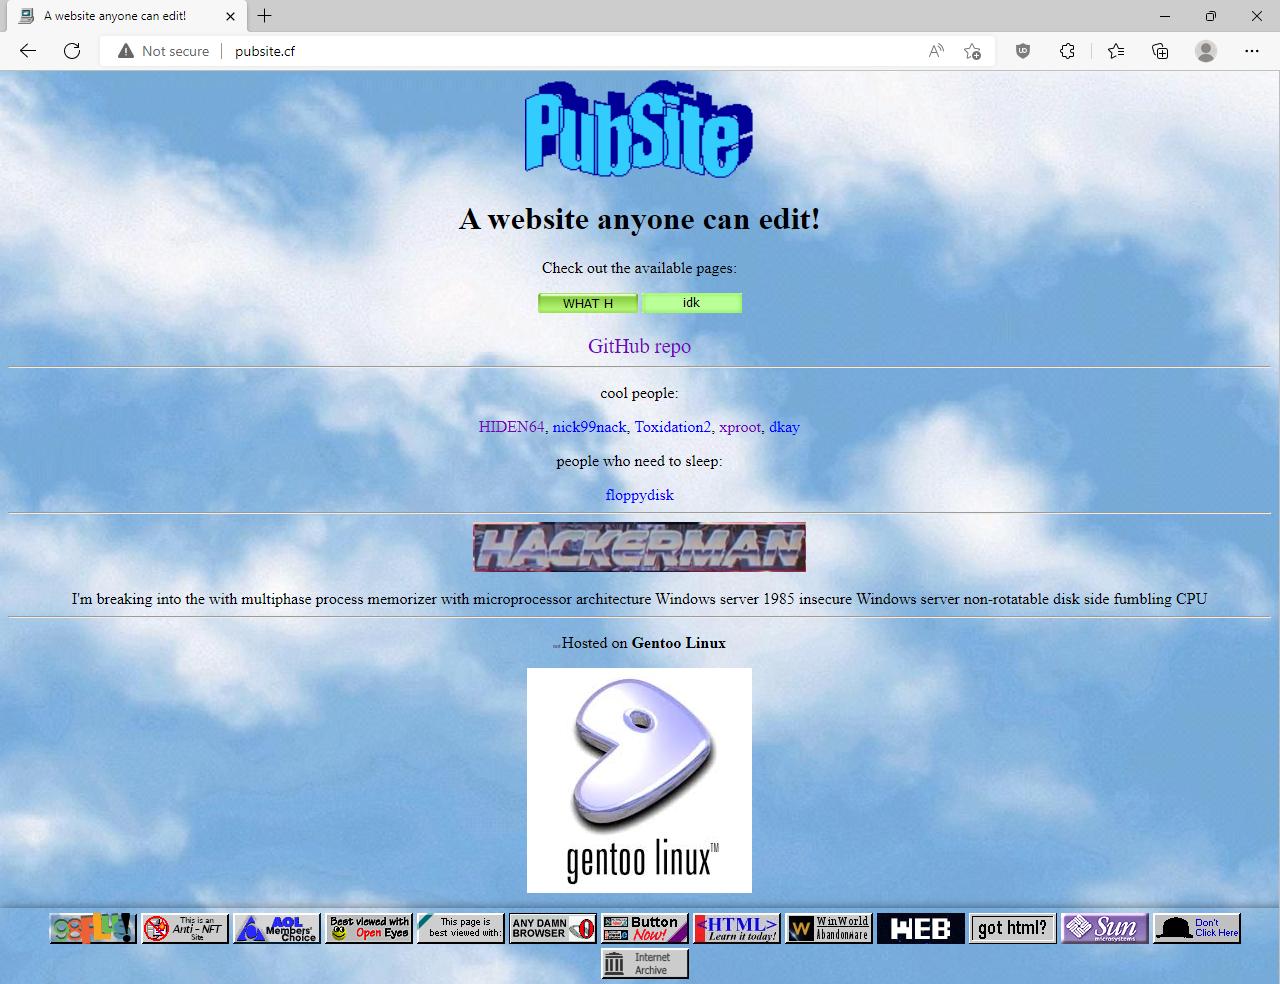
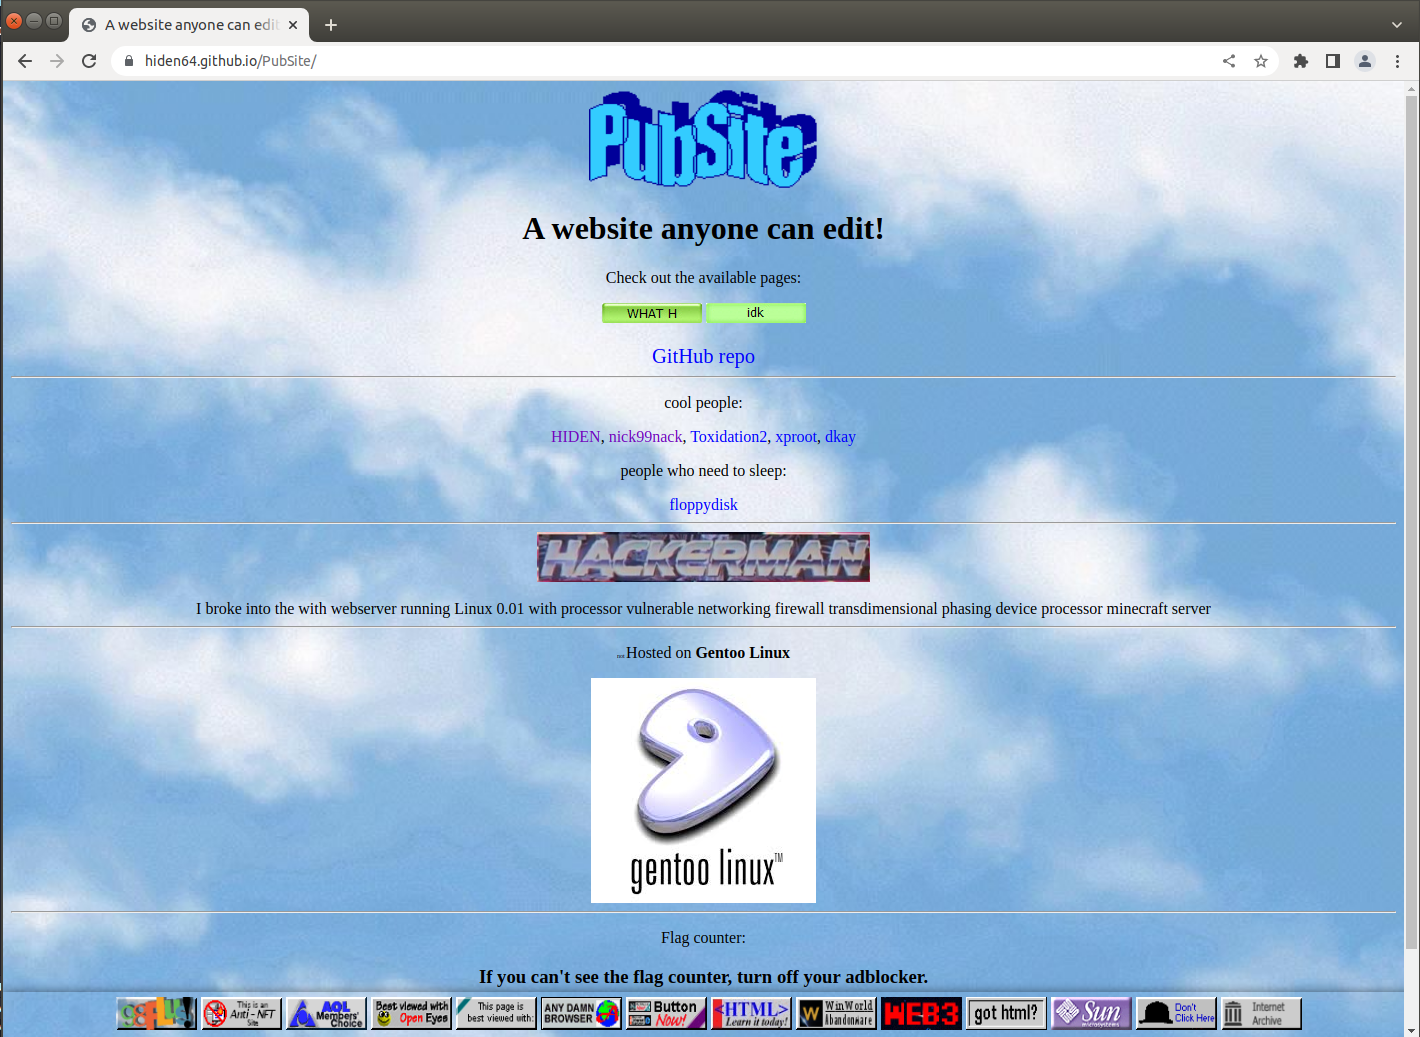
some h

diff --git a/tmpl/about.socials.html b/tmpl/about.socials.html
@@ -52,25 +52,6 @@
 		width: 86px;
 	}
 	
-	.twticon {
-		transition-timing-function: ease;
-		-webkit-transition-duration: 0.5s; /* WebKit/Blink workaround */
-		-moz-transition-duration: 0.5; /* Gecko workaround */
-		-o-transition-duration: 0.5s; /* Presto workaround */
-		transition-duration: 0.5s;
-		height: 80px;
-		width: 82px;	
-	}
-	
-	.twticon:hover {
-		transition-timing-function: ease;
-		-webkit-transition-duration: 0.5s; /* WebKit/Blink workaround */
-		-moz-transition-duration: 0.5; /* Gecko workaround */
-		-o-transition-duration: 0.5s; /* Presto workaround */
-		transition-duration: 0.5s;
-		height: 95px;
-		width: 98px;	
-	}	
 {%- endblock -%}
 
 {%- block content -%}
@@ -162,18 +143,6 @@
 		<td>
 			<p>My YouTube channel can be found <a href=https://www.youtube.com/channel/UCFljx20_mhSJxD5Pv0ld34g>here</a>. The content is rather grab-bag; I just upload/stream whatever I feel like uploading. It could be anything :P.</p>
 			<p>Well... when I <em>do</em> upload, that is, which isn't that often to say the least :P.</p>
-		</td>
-	</tr>
-
-	<tr>
-		<td>
-			<img class=twticon src=/static/icon/socials/twitter.png alt="Twitter icon" title="Twitter icon">
-			<p>Twitter</p>
-		</td>
-		<td>
-			<p>My Twitter is <code><a class=codelink href=https://twitter.com/hi_den64>@hi_den64</a></code>.</p>
-			<p>My other account, for HIDNet updates, is <code><a class=codelink href=https://twitter.com/hidenetwork>@hidnetwork</a></code>.</p>
-			<p>These accounts may be retired at some point, as Twitter is being flushed down the shitter even more than it used to... somehow.</p>
 		</td>
 	</tr>
 	

diff --git a/javascript/notready.js b/javascript/notready.js
@@ -5,10 +5,10 @@ function randInt(size) {
 	function getImg(jNum) {
 		var NRImg = new Array();
 
-		NRImg[1] = "<img src=/static/notready/1.gif>";
-		NRImg[2] = "<img src=/static/notready/2.gif>";
-		NRImg[3] = "<img src=/static/notready/3.gif>";
-		NRImg[4] = "<img src=/static/notready/4.gif>";
+		NRImg[1] = "<img src=/static/not-ready/1.gif>";
+		NRImg[2] = "<img src=/static/not-ready/2.gif>";
+		NRImg[3] = "<img src=/static/not-ready/3.gif>";
+		NRImg[4] = "<img src=/static/not-ready/4.gif>";
 
 		return NRImg[jNum];
 	}

diff --git a/tmpl/projects.pubsite.ssgallery.html b/tmpl/projects.pubsite.ssgallery.html
@@ -19,5 +19,5 @@
 
 <br>
 
-<p class=highsmalltxt>Taken with Microsoft Edge v105.0.1343.42 on Windows 10 21H2 x64</p>
+<p class=highsmalltxt>Taken with Google Chrome v112.0.5615.165 on Arch Linux x64 (via a Bedrock stratum)</p>
 {%- endblock -%}
